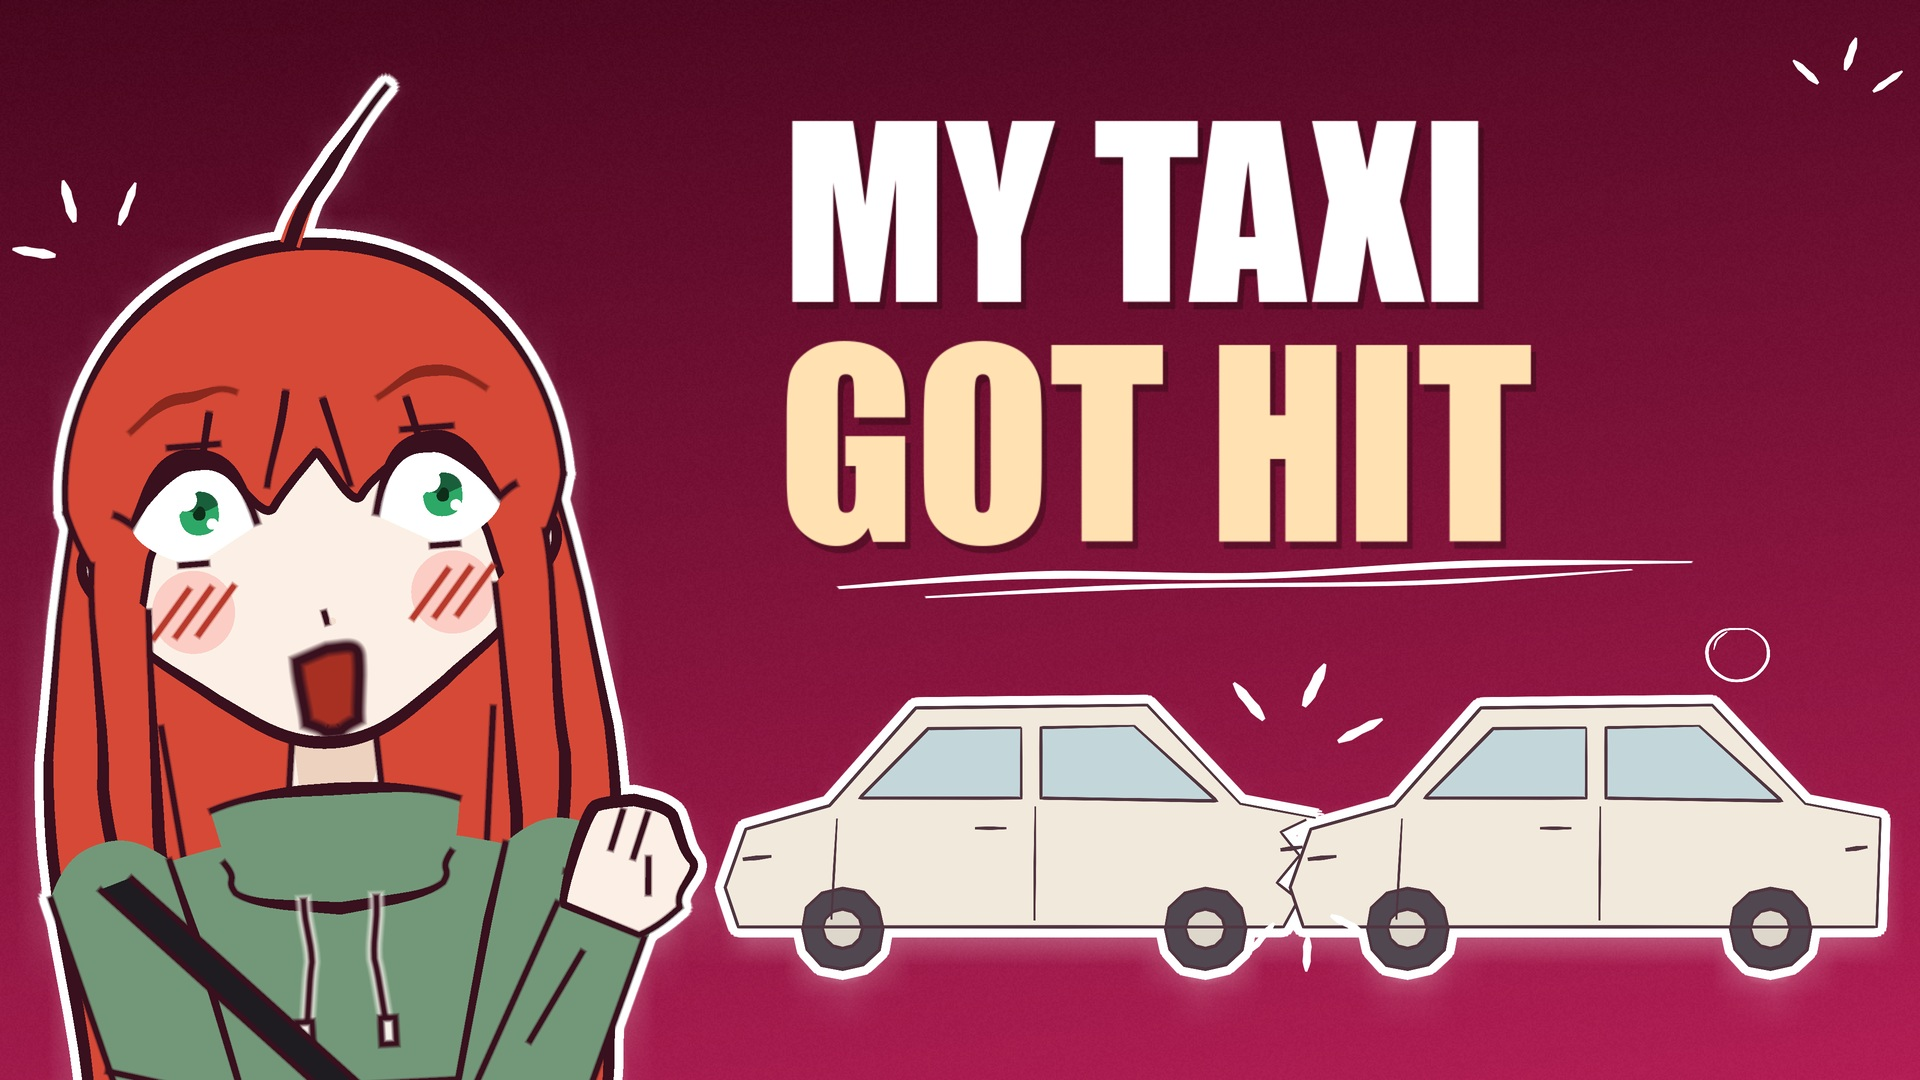
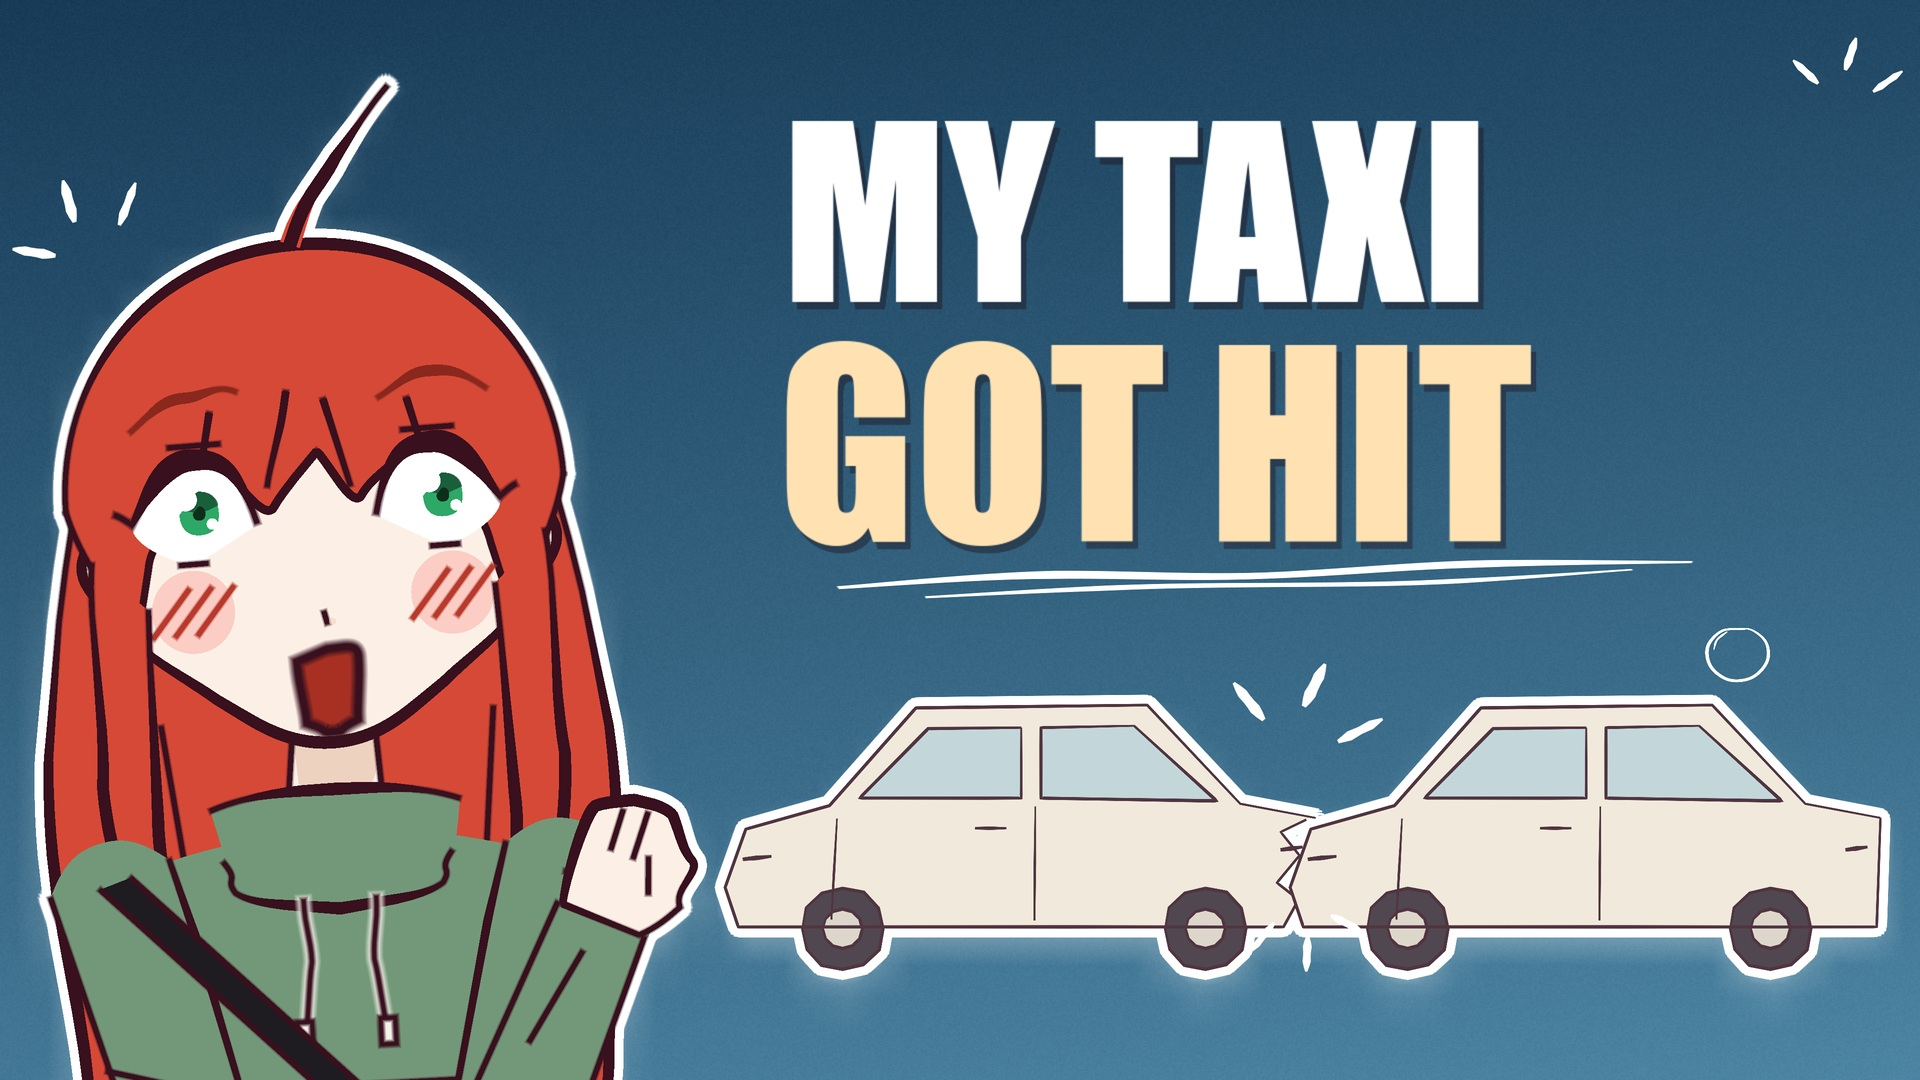
Revise Nemi EP09 thumbnail background for character contrast

diff --git a/nemi/episodes/ep09_sf_accident/thumbnail/BRIEF_AND_REVIEW.md b/nemi/episodes/ep09_sf_accident/thumbnail/BRIEF_AND_REVIEW.md
@@ -1,19 +1,21 @@
-# Nemi EP09 thumbnail revision 2 — 2026-10-04
+# Nemi EP09 thumbnail revision 3 — 2026-10-04
 
-User requested **MY TAXI GOT HIT** as the only text; removal of the location label, aside and taxi roof label; EP00-inspired burgundy/pink background, little doodles and common white glow/outline. The existing storytime character and rear-end car art remain.
+The user rejected revision 2’s burgundy/pink background and said ADB’s background was fine. This change revises only Nemi’s colour field; keep the single **MY TAXI GOT HIT** headline, shocked production-rig portrait, cream rear-end collision art, white silhouette aura and completed Nemi-profile doodles.
 
-References inspected: Nemi EP00 thumbnail (burgundy/pink field, white compact doodles); earlier EP09 film contact sheet and collision still already inspected in this chat. Script evidence: airport taxi rear-ended, Nemi in the back. Both cars face left; follower nose meets taxi rear. Thumbnail is an editorial character/event collage. Author: nemi.
+Revision 2 source, exports, log and provenance are preserved under `revisions/r2/`; revision 1 remains under `revisions/r1/`. Actual episode/script evidence and art sources are unchanged: human-driven airport taxi rear-ended, Nemi in the back; both cars face left and follower nose meets taxi rear. This is an editorial portrait/event collage.
 
-Application: recreate the background treatment in Godot rather than reusing the old generated face; external white halo is compositing around unchanged production art. Keep the existing supported Nemi shocked face, canonical colours and arms beside the face. Profile marks retain her own paths.
+## Palette application and review
 
-Revision 1 source, exports and provenance preserved in revisions/r1/.
+Rendered and viewed blue (`#183b57` to `#508aa8`), warm brown (`#603b35` to `#bc825a`) and lavender (`#3e3b66` to `#7c79ac`) full compositions in Godot. Chose navy-to-denim blue for clear warm/cool separation from Nemi’s red hair, readable cream/white type and a quieter field behind the aura. Brown is close to her hair hue; lavender has softer value separation. This is assistant visual judgment, not user approval or audience-performance evidence.
 
-## Final review and files
+Fresh final Godot render completed with `THUMBNAIL_OK nemi_ep09_revision3` and no errors/warnings. Viewed final 1920×1080 JPG, 320×180 phone preview, 160×90 tiny preview and native 3840×2160 master displayed at 2048×1152. Headline readable at reduced sizes; eyes and face remain clear; white aura/marks and existing bumper contact retained. Bottom-right wheels remain close to a potential platform duration overlay, with no critical headline/face there. No upload or CTR measurement performed.
 
-Fresh Godot exports passed with a completion marker and no errors/warnings in the final log. Inspected the 1920×1080 JPG, 320×180 preview, 160×90 preview and native 3840×2160 master displayed at 2048×1152. One headline reads at both reduced sizes; face/eyes stay clear. Native masters were rasterized from the vector rig/art before editorial compositing, not upscaled from a 1080p bitmap.
+Recommended delivery: `thumbnail.jpg`. Editable layout: `layout.json`; static renderer: `render_thumbnail.gd`; shared styling: `tools/storytime/ThumbnailStyle.gd`. Source/output dimensions, sizes and hashes are recorded in `provenance_and_qa.json`; engine output is in `render.log`. Native masters/previews stay local. From the repository root:
 
-Recommended copy: `thumbnail.jpg`. Editable layout: `layout.json`; renderer: `render_thumbnail.gd`; shared external styling: `tools/storytime/ThumbnailStyle.gd`. Master and inspection PNGs remain local. Source/reference/output dimensions, sizes and hashes are in `provenance_and_qa.json`; final engine output is in `render.log`. Run the installed Godot from the repository root with `--path . --log-file /tmp/thumbnail.log --script` followed by this folder's renderer path.
+```sh
+/Users/talus/Downloads/Godot.app/Contents/MacOS/Godot --path . --log-file /tmp/nemi_ep09_thumbnail_r3.log --script nemi/episodes/ep09_sf_accident/thumbnail/render_thumbnail.gd --quit-after 180
+```
 
-Both updated skills passed the skill validator. Protected-source diff checks found no changes to the character rigs, expression/pose/hand libraries, shared props/profiles or either episode scene. No animation, voice or movie changes. The EP00 image was a visual background reference only; no old generated character, lettering or background pixels were reused. Provenance: **Godot render using existing production rig/art; AI-assisted direction/code**. No audience-performance claim or user approval is implied.
+Renderer optionally accepts `-- --layout=<json-path> --output=<file-prefix>` for isolated colour studies. Default invocation exports the episode’s current selected layout. Canonical rig/prop geometry, art palette, expression, placement and type remain unchanged; no episode animation/audio/movie edits. Shared document, AGENTS routing and Nemi skill now record the rejected background preference without treating blue as a permanently approved channel palette. ADB remains unchanged.
 
-Removed the location/aside/object text. Preserved previous outputs/source/QA under `revisions/r1/`; superseded alternate files now live there. Nemi uses her own rounded double underline and impact strokes; both vehicles face left with nose-to-rear contact.
+Provenance: **Godot render using existing production rig/art; AI-assisted direction/code**. EP00 remains a historical reference for aura/doodle treatment, with no old generated pixels copied.

diff --git a/docs/animation/STORYTIME_THUMBNAILS.md b/docs/animation/STORYTIME_THUMBNAILS.md
@@ -4,7 +4,7 @@ User direction, 2026-10-04: future Nemi and ADB thumbnails must match their stor
 
 This applies to thumbnail requests and the thumbnail deliverable of future episodes. It does not authorize changing old movies or replacing unrelated old thumbnails. The first requested example is `nemi/episodes/ep09_sf_accident/thumbnail/`.
 
-Refinement, 2026-10-04: use **one eye-catching headline only**. Omit small location labels, asides, object labels, branding and secondary copy. Supporting punctuation can be a compact doodle, not another caption. Nemi's default background references her EP00 burgundy/pink field; ADB's references his EP00 golden-yellow field. Keep a common white cutout outline with a soft aura and a few author-specific doodles. These background/compositing treatments are explicitly allowed; character/prop drawing style still comes from the storytime art. Recreate the background treatment in Godot or reuse a user-authorized clean background layer; never copy the generated face/character or old headline. Preserve honest background provenance if any pixels from an older generated image are reused.
+Refinement, 2026-10-04: use **one eye-catching headline only**. Omit small location labels, asides, object labels, branding and secondary copy. Supporting punctuation can be a compact doodle, not another caption. ADB's background references his EP00 golden-yellow field. The user rejected Nemi's EP00-inspired burgundy/pink field for EP09: choose her background for clear separation from her red hair and green clothing instead. EP09 revision 3 uses navy-to-denim blue; this is a reviewed candidate, not a permanently approved channel palette. Keep a common white cutout outline with a soft aura and a few author-specific doodles. These background/compositing treatments are explicitly allowed; character/prop drawing style still comes from the storytime art. Recreate the background treatment in Godot or reuse a user-authorized clean background layer; never copy the generated face/character or old headline. Preserve honest background provenance if any pixels from an older generated image are reused.
 
 ## Route and scope
 
@@ -32,7 +32,7 @@ Provenance should say “Godot render using existing production rig/art; AI-assi
 
 ## Reproducible first example
 
-`nemi/episodes/ep09_sf_accident/thumbnail/render_thumbnail.gd` is an episode-specific static composition, not a movie-stage replacement or universal thumbnail schema. Current `layout.json` records Nemi, background, placements and the single MY TAXI GOT HIT headline. Revision 1 is preserved under `thumbnail/revisions/r1/`. It uses:
+`nemi/episodes/ep09_sf_accident/thumbnail/render_thumbnail.gd` is an episode-specific static composition, not a movie-stage replacement or universal thumbnail schema. Current `layout.json` records Nemi, background, placements and the single MY TAXI GOT HIT headline. Earlier revisions are preserved under `thumbnail/revisions/r1/` and `thumbnail/revisions/r2/`. It uses:
 
 - `nemi/characters/nemi/nemi.tscn` and its existing colour, expression, pupil/gaze and arm controls;
 - `common/storytime/production/TravelArt.gd` for both cars;

diff --git a/nemi/episodes/ep09_sf_accident/thumbnail/revisions/r2/BRIEF_AND_REVIEW.md b/nemi/episodes/ep09_sf_accident/thumbnail/revisions/r2/BRIEF_AND_REVIEW.md
@@ -1,0 +1,19 @@
+# Nemi EP09 thumbnail revision 2 — 2026-10-04
+
+User requested **MY TAXI GOT HIT** as the only text; removal of the location label, aside and taxi roof label; EP00-inspired burgundy/pink background, little doodles and common white glow/outline. The existing storytime character and rear-end car art remain.
+
+References inspected: Nemi EP00 thumbnail (burgundy/pink field, white compact doodles); earlier EP09 film contact sheet and collision still already inspected in this chat. Script evidence: airport taxi rear-ended, Nemi in the back. Both cars face left; follower nose meets taxi rear. Thumbnail is an editorial character/event collage. Author: nemi.
+
+Application: recreate the background treatment in Godot rather than reusing the old generated face; external white halo is compositing around unchanged production art. Keep the existing supported Nemi shocked face, canonical colours and arms beside the face. Profile marks retain her own paths.
+
+Revision 1 source, exports and provenance preserved in revisions/r1/.
+
+## Final review and files
+
+Fresh Godot exports passed with a completion marker and no errors/warnings in the final log. Inspected the 1920×1080 JPG, 320×180 preview, 160×90 preview and native 3840×2160 master displayed at 2048×1152. One headline reads at both reduced sizes; face/eyes stay clear. Native masters were rasterized from the vector rig/art before editorial compositing, not upscaled from a 1080p bitmap.
+
+Recommended copy: `thumbnail.jpg`. Editable layout: `layout.json`; renderer: `render_thumbnail.gd`; shared external styling: `tools/storytime/ThumbnailStyle.gd`. Master and inspection PNGs remain local. Source/reference/output dimensions, sizes and hashes are in `provenance_and_qa.json`; final engine output is in `render.log`. Run the installed Godot from the repository root with `--path . --log-file /tmp/thumbnail.log --script` followed by this folder's renderer path.
+
+Both updated skills passed the skill validator. Protected-source diff checks found no changes to the character rigs, expression/pose/hand libraries, shared props/profiles or either episode scene. No animation, voice or movie changes. The EP00 image was a visual background reference only; no old generated character, lettering or background pixels were reused. Provenance: **Godot render using existing production rig/art; AI-assisted direction/code**. No audience-performance claim or user approval is implied.
+
+Removed the location/aside/object text. Preserved previous outputs/source/QA under `revisions/r1/`; superseded alternate files now live there. Nemi uses her own rounded double underline and impact strokes; both vehicles face left with nose-to-rear contact.

diff --git a/.agents/skills/nemi-storytime/SKILL.md b/.agents/skills/nemi-storytime/SKILL.md
@@ -7,7 +7,7 @@ description: Create, script, animate or continue a new NEMI storytime episode, o
 
 ## Thumbnails
 
-Use one headline only, an EP00-inspired burgundy/pink background, a common white silhouette outline/soft aura, and a few Nemi-profile doodles. These are thumbnail dressing around the unchanged animation art; omit small supporting captions and labels. Details and executable examples are in the shared thumbnail document below.
+Use one headline only, a background that separates Nemi’s red hair and green clothing clearly, a common white silhouette outline/soft aura, and a few Nemi-profile doodles. The user rejected the EP00-inspired burgundy/pink background for EP09; do not require that palette. A navy-to-denim field is the current EP09 revision, subject to user feedback. These are thumbnail dressing around the unchanged animation art; omit small supporting captions and labels. Details and executable examples are in the shared thumbnail document below.
 
 For a thumbnail request or an episode's thumbnail deliverable, read [Storytime thumbnails](../../../docs/animation/STORYTIME_THUMBNAILS.md) from the repository root at `docs/animation/STORYTIME_THUMBNAILS.md`. Use the existing Nemi rig, episode scenery/props and Nemi pen in a separate editable Godot composition. No AI image generation/restyling. Inspect actual episode frames and full/mobile thumbnail exports; save brief, provenance and review under the episode's `thumbnail/`. For thumbnail-only work, stop at that route: do not create a new scene, modify the animation/voice or fabricate animation-preflight receipts. For combined episode/thumbnail work, complete the episode preparation below as well.
 

diff --git a/AGENTS.md b/AGENTS.md
@@ -4,7 +4,7 @@
 
 For Nemi/ADB thumbnail work, load the relevant storytime skill and `docs/animation/STORYTIME_THUMBNAILS.md`. Future thumbnails use existing production rigs/art in editable Godot compositions; do not use AI image generation or restyling. Save source, exports and review in the episode's `thumbnail/`, preserving animation, voice and existing renders. A thumbnail-only request follows the static-image route; full episode preflight/proofs still apply when animation work is requested.
 
-Use one eye-catching headline only, without smaller captions/labels. EP00-inspired backgrounds (Nemi burgundy/pink, ADB golden yellow), a shared external white silhouette outline/soft aura, and a few author-specific doodles are allowed and preferred; retain the actual storytime character/prop art.
+Use one eye-catching headline only, without smaller captions/labels. ADB’s EP00-inspired golden-yellow background, a contrasting background for Nemi (her burgundy/pink EP09 revision was rejected), a shared external white silhouette outline/soft aura, and a few author-specific doodles are allowed and preferred; retain the actual storytime character/prop art.
 
 ## Automatic episode-start routing (Codex and Antigravity)
 
